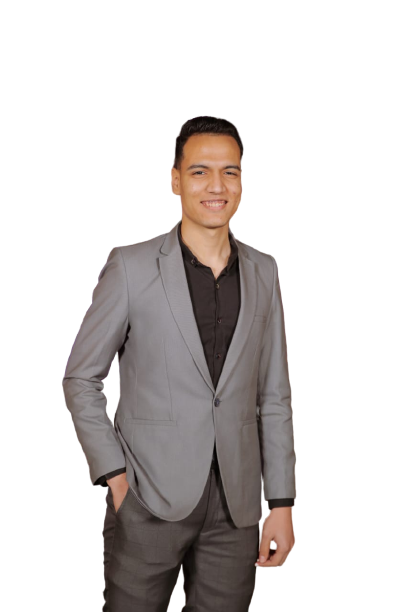
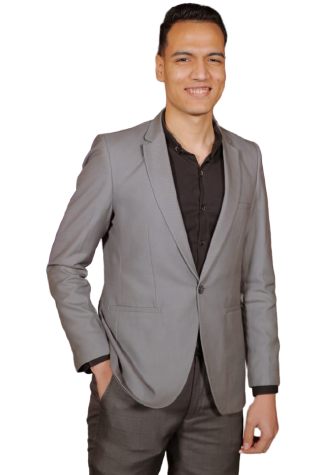
new projects

diff --git a/src/components/Intro/Intro.css b/src/components/Intro/Intro.css
@@ -70,7 +70,7 @@
 .i-right > :nth-child(3) {
  
   transform: scale(1.2);
-  top: -146px;
+  top: -51px;
   left: 20%;
 
 }
